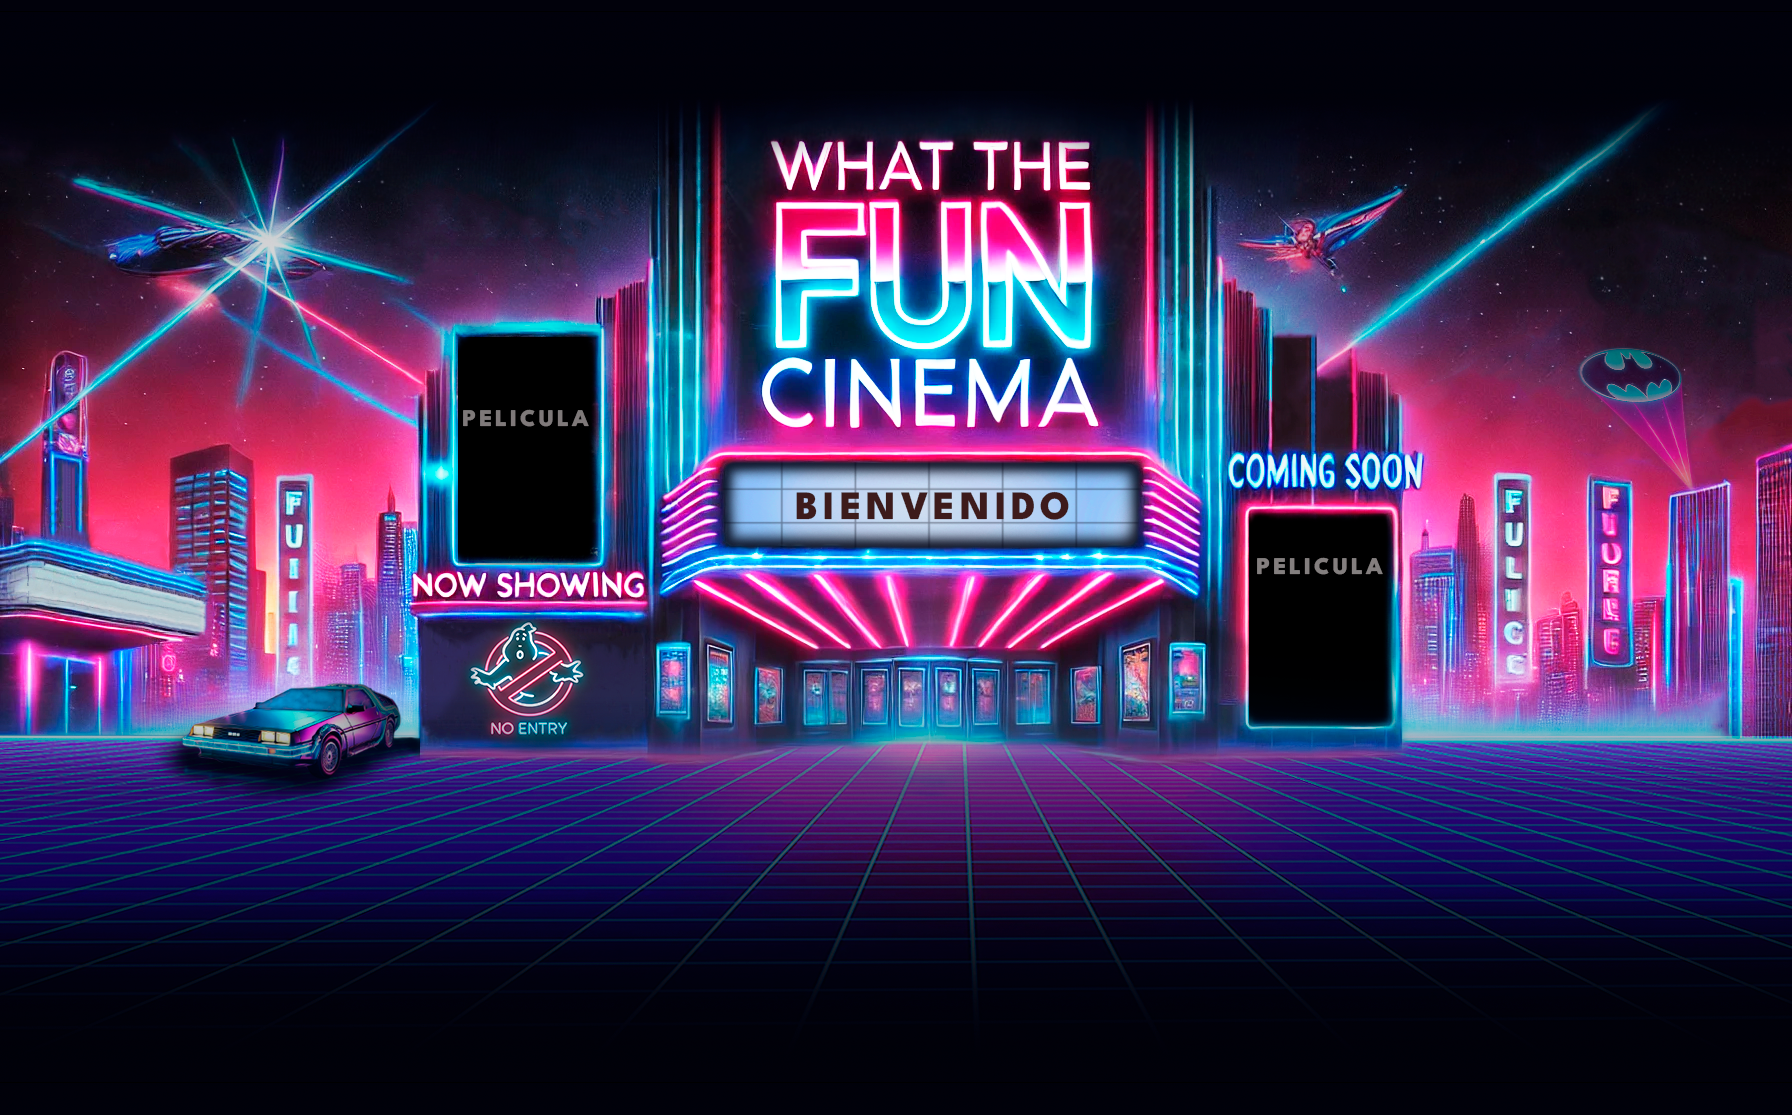
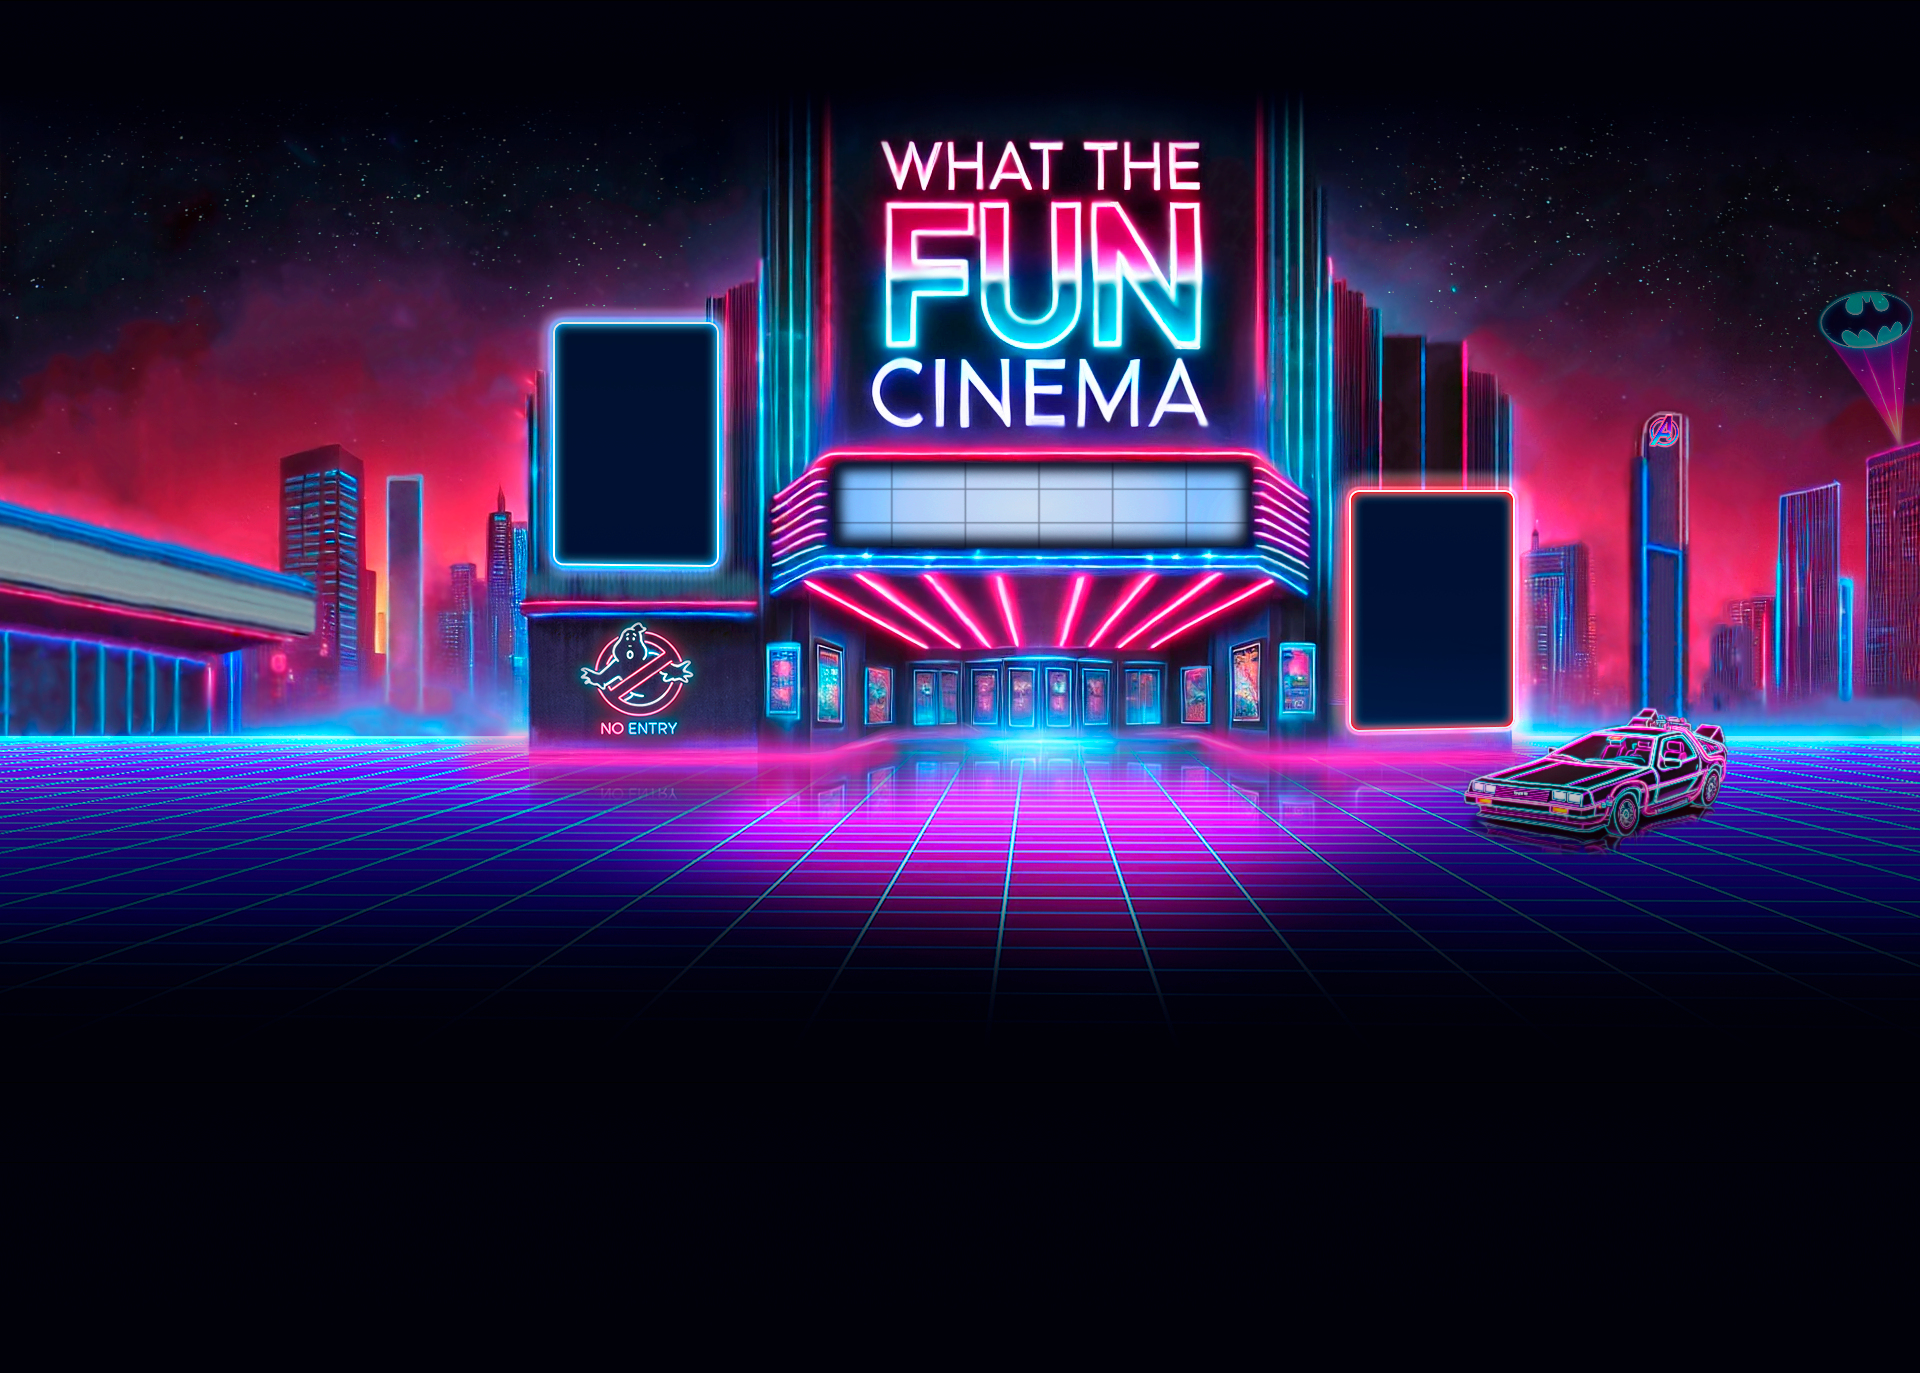
Avances en la homepage

diff --git a/frontend/src/pages/Home.js b/frontend/src/pages/Home.js
@@ -1,9 +1,74 @@
-import { Box, Typography } from "@mui/material";
-import Test from "../components/TestLongitud";
+import background from '../assets/background.png';
+import { Box, Typography } from '@mui/material';
+
 export default function HomePage() {
-    return ( 
-          <Typography fontSize={40}>
-            Está en progreso no lo miren
-          </Typography>
-    );
-  }
+  return (
+    <div
+      style={{
+        position: 'relative',
+        minHeight: '127vh',
+        overflowX: 'hidden',
+        display: 'flex',
+        flexDirection: 'column',
+      }}
+    >
+      {/* Background Image */}
+      <div
+        style={{
+          position: 'absolute',
+          top: 0,
+          left: 0,
+          width: '100%',
+          height: '100%',
+          backgroundImage: `url(${background})`,
+          backgroundSize: '100vw auto',
+          backgroundPosition: 'top center',
+          backgroundRepeat: 'no-repeat',
+        }}
+      />
+
+      {/* Tickets Content Box */}
+      <Box
+        mt={30}
+        ml={5}
+        maxWidth={400}
+        minHeight={500}
+        display="flex"
+        justifyContent="center"
+        alignItems="top"
+        sx={{
+          position: 'relative',
+          zIndex: 1,
+          backgroundColor: 'rgba(0, 0, 0, 0.9)',
+          padding: 3,
+          borderRadius: 5,
+        }}
+      >
+        <Typography variant="neonCyan" fontSize={45}>Comprar entradas</Typography>
+        {/* Add additional content here */}
+      </Box>
+
+      {/* Spacer to push the footer down */}
+      <Box flexGrow={1} minHeight={120} />
+
+      {/* Footer */}
+      <Box
+        component="footer"
+        display="flex"
+        justifyContent="space-between"
+        alignItems="center"
+        sx={{
+          width: '100%',
+          padding: 2,
+          backgroundColor: '#0e0d1a',
+          color: 'white',
+          zIndex: 1,
+        }}
+      >
+        <Typography variant="body2">Contact us: info@whatthefuncinema.com</Typography>
+        <Typography variant="body2">Phone: +1 (123) 456-7890</Typography>
+        <Typography variant="body2" mr={2}>© 2024 What The Fun Cinema</Typography>
+      </Box>
+    </div>
+  );
+}

diff --git a/frontend/src/components/Appbar.js b/frontend/src/components/Appbar.js
@@ -10,7 +10,7 @@ import Tooltip from '@mui/material/Tooltip';
 import MenuItem from '@mui/material/MenuItem';
 import IconButton from '@mui/material/IconButton';
 import MenuIcon from '@mui/icons-material/Menu';
-import logo from '../logo.png';
+import logo from '../assets/logo.png';
 import { useNavigate } from 'react-router-dom';
 
 const pages = ['cartelera', 'sucursales', 'contacto'];
@@ -82,12 +82,14 @@ function ResponsiveAppBar() {
   };
 
   return (
-    <AppBar sx={{height: 110}} position="fixed" className={scrolled ? 'scrolled' : ''}>
+    <AppBar sx={{height: 130}} position="fixed" className={scrolled ? 'scrolled' : ''}>
       <Container sx={{mt: 0.5}} maxWidth="false">
         <Toolbar disableGutters>
           <Box sx={{ display: { xs: 'none', md: 'flex' }, mr: 2 }}>
-            <IconButton href="/home">
-              <img src={logo} alt="Logo" style={{ height: 80, marginRight: 5 }} />
+            <IconButton href="/home" style={{ transition: 'transform 0.2s ease-in-out' }} 
+            onMouseEnter={(e) => e.currentTarget.firstChild.style.transform = 'scale(1.1)'}
+            onMouseLeave={(e) => e.currentTarget.firstChild.style.transform = 'scale(1)'}>
+              <img src={logo} alt="Logo" style={{ height: 200, marginTop: -60, marginLeft: -40, marginRight: -20, transition: 'transform 0.2s ease-in-out' }} />
             </IconButton>
           </Box>
 
@@ -128,7 +130,7 @@ function ResponsiveAppBar() {
           </Box>
 
           {/* Full-size menu for medium and large screens */}
-          <Box sx={{ flexGrow: 1, display: { xs: 'none', md: 'flex' } }}>
+          <Box mt={-4} sx={{ flexGrow: 1, display: { xs: 'none', md: 'flex' } }}>
             {pages.map((page,index) => (
               <Button 
               key={page} 
@@ -144,7 +146,7 @@ function ResponsiveAppBar() {
           </Box>
 
           {/* LoggedIn/LoggedOut buttons */}
-          <Box sx={{ flexGrow: 0 }}>
+          <Box mt={-4} sx={{ flexGrow: 0 }}>
             {(() => {
               switch (userRole) {
                 case 'notLoggedIn':

diff --git a/frontend/src/components/TestLongitud.js b/frontend/src/components/TestLongitud.js
@@ -3,7 +3,7 @@ import { Container, Typography } from "@mui/material";
 
 export default function Test() {
     return (      <div>
-        <Container sx={{ marginTop: 15 }}>
+        <Container >
         <Typography variant="neonPink" align="center" fontSize={80}>WTFcinema</Typography>
         <Typography variant="body1" color="#ffffff">Lorem ipsum dolor sit amet, consectetur adipiscing elit. Vivamus lacinia odio vitae vestibulum vestibulum. Cras venenatis euismod malesuada. Donec bibendum felis et felis facilisis, vel faucibus purus tempor. Curabitur at elit quis magna condimentum sagittis. Integer vehicula magna vel nulla vestibulum, eget auctor justo fermentum.
         Lorem ipsum dolor sit amet, consectetur adipiscing elit. Vivamus lacinia odio vitae vestibulum vestibulum. Cras venenatis euismod malesuada. Donec bibendum felis et felis facilisis, vel faucibus purus tempor. Curabitur at elit quis magna condimentum sagittis. Integer vehicula magna vel nulla vestibulum, eget auctor justo fermentum.

diff --git a/frontend/src/App.js b/frontend/src/App.js
@@ -15,7 +15,6 @@ function App() {
   const isHomePage = location.pathname === '/' || location.pathname === '/home';
 
   return (
-    <div className={`App ${isHomePage ? 'home-background' : ''}`}>
       <ThemeProvider theme={neonTheme}>
         <ResponsiveAppBar />
         <Routes>
@@ -28,7 +27,6 @@ function App() {
           <Route path='*' element={<NotFound />} />
         </Routes>
       </ThemeProvider>
-    </div>
   );
 }
 

diff --git a/frontend/src/App.css b/frontend/src/App.css
@@ -44,10 +44,10 @@ body, html, .App {
   background-color: #0e0d1a;
 }
 
-.home-background {
+.home {
   background-image: url('./assets/background.png');
   background-size: cover;
-  background-position: center;
+  background-position: top;
   background-repeat: no-repeat;
   min-height: 100vh;
   min-width: 100vw;
